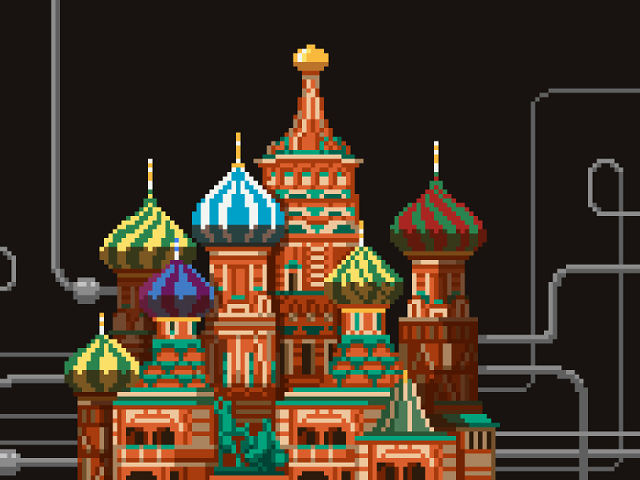
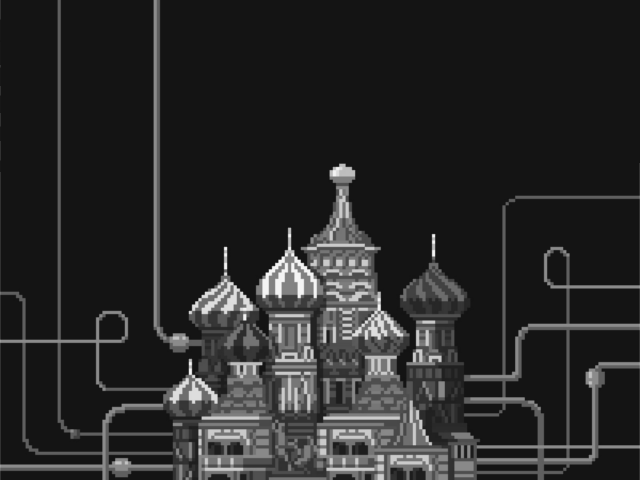
Art Polished + Game re-balanced (it gets faster quicker)

diff --git a/js/play.js b/js/play.js
@@ -811,7 +811,7 @@ function updateNextWindow(){
 
 function updateTickSpeed(){
 	if(lineCount  >= speedUpGoal){
-		tickInterval *= 0.9;
+		tickInterval *= 0.75;
 		speedUpGoal += 10;
 		level++;
 		updateLabelLevel();
